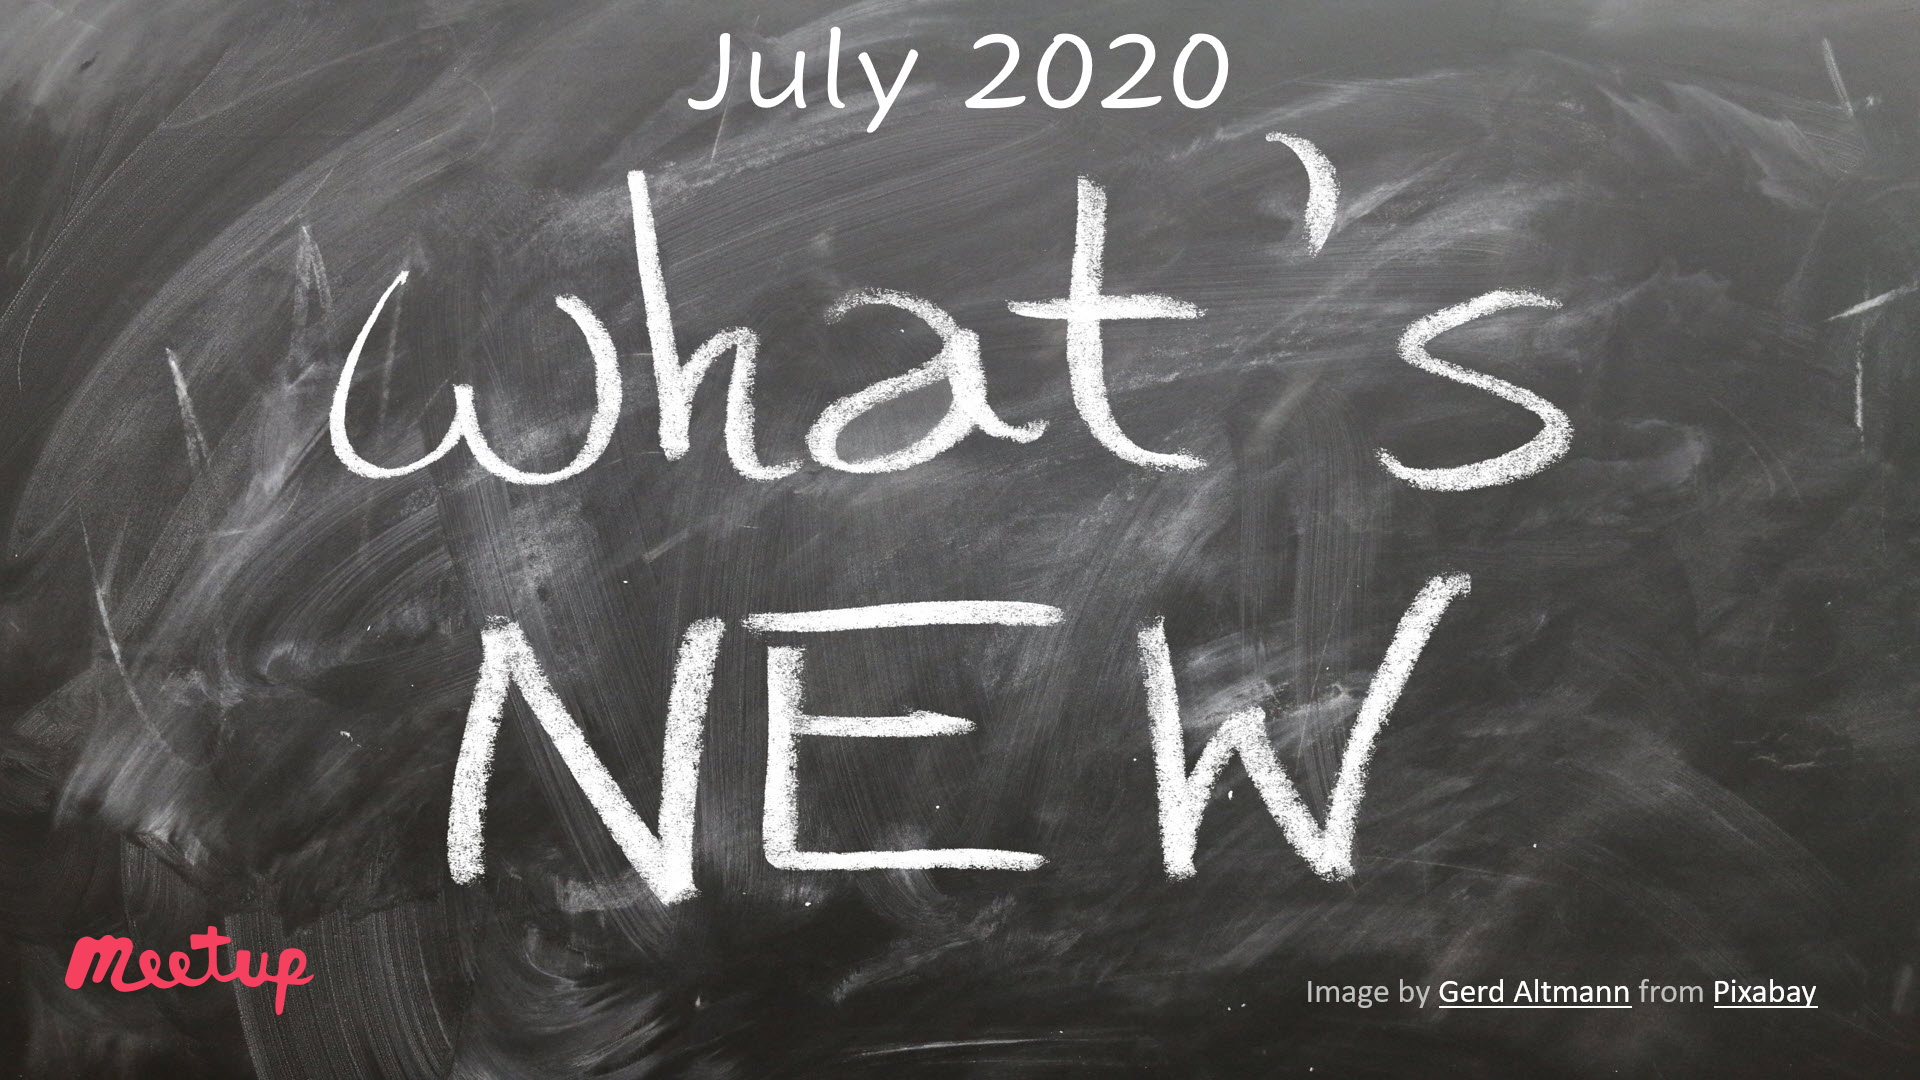
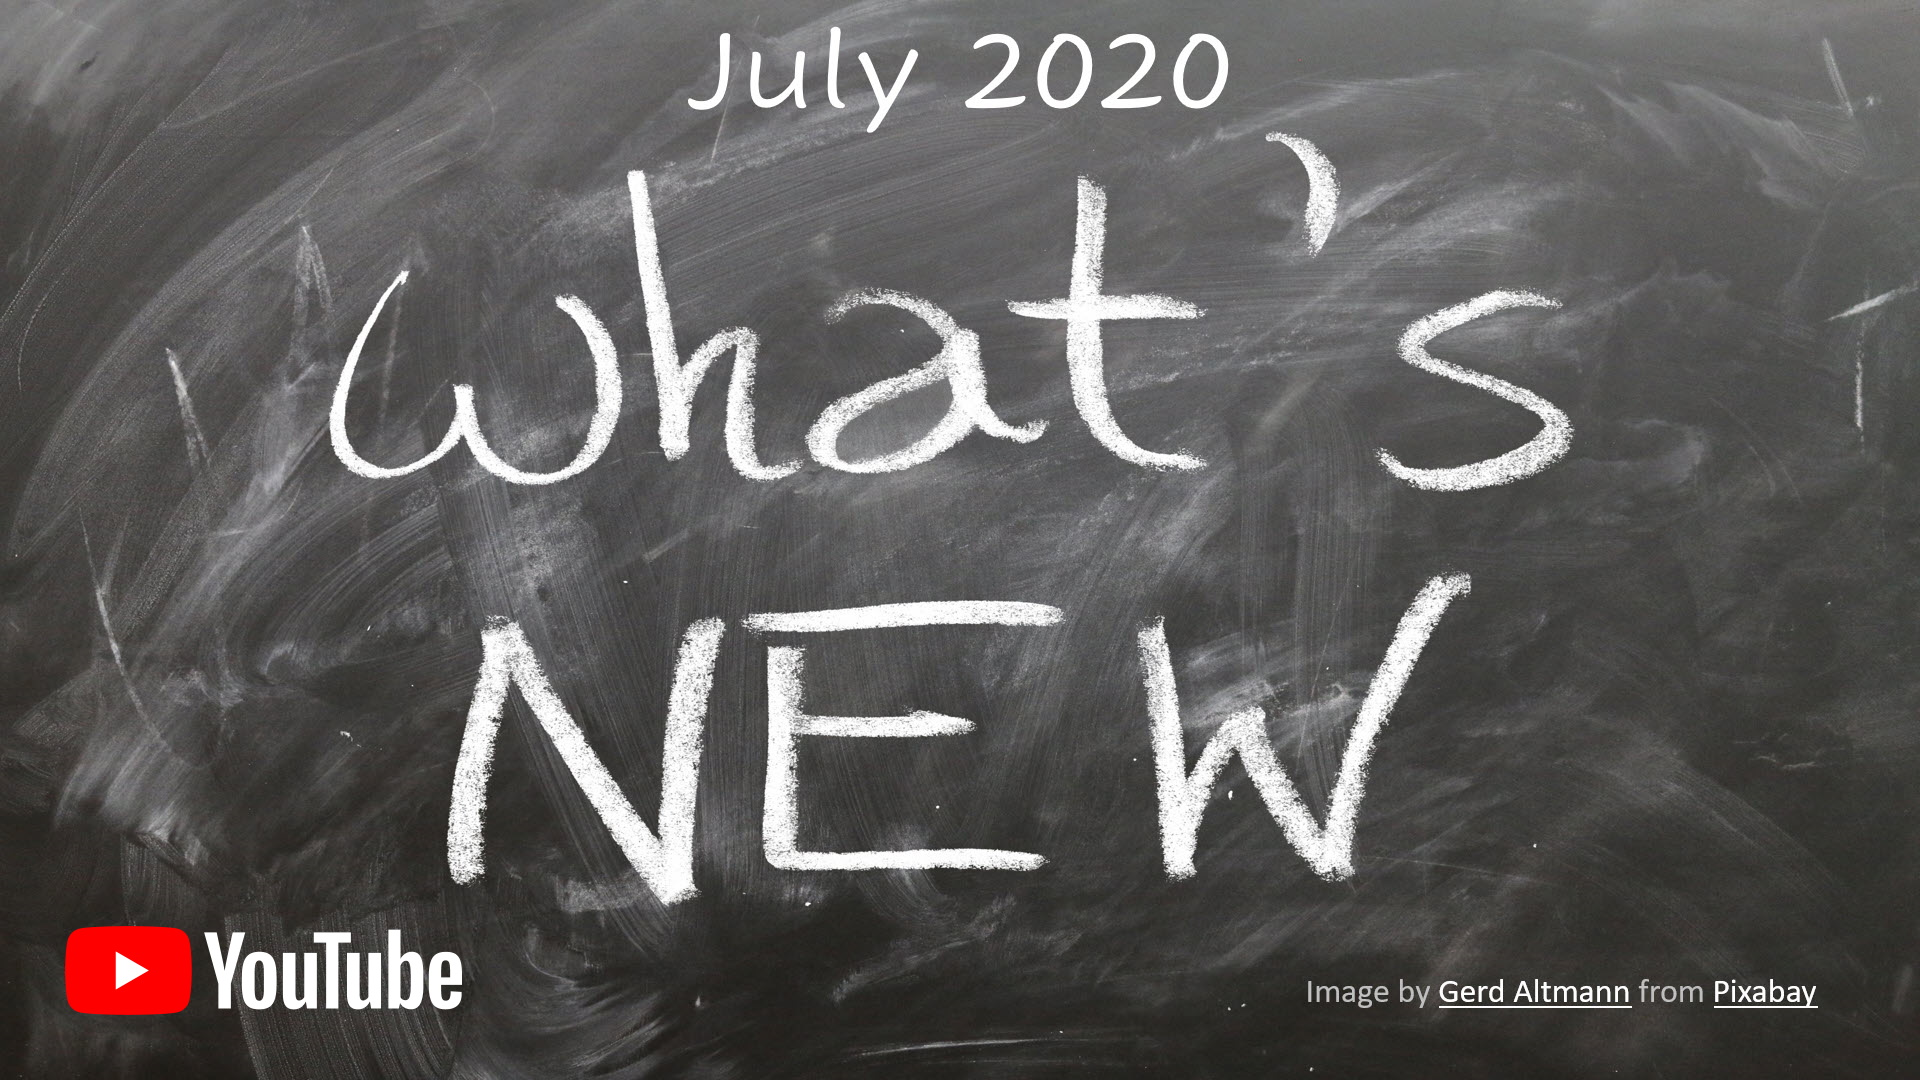
adding July notes and august session page

Changed region(s): [[0.0312, 0.8556, 0.25, 0.9472]]

diff --git a/meetups/2020/20200707.md b/meetups/2020/20200707.md
@@ -1,16 +1,44 @@
 # 7 July 2020 - News & Catch up 📰 July 2020
 
-[![](files/20200707/cover.jpg)](https://www.meetup.com/Azure-Transformation-Labs/events/271041672/)
+[![](files/20200707/cover.jpg)](https://www.youtube.com/watch?v=YJWdqKeuV08)
 
 ## Join Us
 
-[News & Catch up June 2020](https://www.meetup.com/Azure-Transformation-Labs/events/270811782/) - 7 July 2020 @ 6pm UTC + 2
+[News & Catch up July 2020](https://www.meetup.com/Azure-Transformation-Labs/events/271041672/) - 7 July 2020 @ 6pm UTC + 2
 
 RSVP on meetup: [Azure Transformation Labs](https://www.meetup.com/Azure-Transformation-Labs/)
 
 ## Session notes
 
-This will be posted after the session 😀
+Azure geo-zone-redundant storage now generally available:
+[https://azure.microsoft.com/is-is/updates/storage-gzrs-ga/](https://azure.microsoft.com/is-is/updates/storage-gzrs-ga/)
+
+Azure Kubernetes Service (AKS) support for proximity placement groups is now available:
+[https://azure.microsoft.com/en-in/updates/azure-kubernetes-service-aks-support-for-proximity-placement-groups-is-now-available/](https://azure.microsoft.com/en-in/updates/azure-kubernetes-service-aks-support-for-proximity-placement-groups-is-now-available/)
+
+WSL2 Demos based off windows update 2004:
+[https://docs.microsoft.com/en-us/windows/wsl/wsl2-index](https://docs.microsoft.com/en-us/windows/wsl/wsl2-index)
+
+Azure virtual machine scale set agents (Azure DevOps):
+[https://docs.microsoft.com/en-us/azure/devops/pipelines/agents/scale-set-agents?view=azure-devops](https://docs.microsoft.com/en-us/azure/devops/pipelines/agents/scale-set-agents?view=azure-devops)
+
+AWS Toolkit has codified templating - writing C# code that compiles into an 'ARM template' built into AWS
+
+Playing with docker commands
+
+Kubernetes chatter
+
+Managed Apache Kafka clusters:
+[https://www.confluent.io/confluent-cloud/](https://www.confluent.io/confluent-cloud/)
+
+Azure Sketches Episode 3 will be announced soon on meetup:
+[https://www.meetup.com/Azure-Transformation-Labs/](https://www.meetup.com/Azure-Transformation-Labs/)
+
+**View notes on GitHub**
+[https://github.com/South-Africa-Durban-UG/Meetups/blob/master/meetups/2020/20200707.md](https://github.com/South-Africa-Durban-UG/Meetups/blob/master/meetups/2020/20200707.md)
+
+**Azure Transformation Labs**
+[https://www.meetup.com/Azure-Transformation-Labs/](https://www.meetup.com/Azure-Transformation-Labs/)
 
 ## Subscribe / Join
 

diff --git a/meetups/2020/20200804.md b/meetups/2020/20200804.md
@@ -1,0 +1,19 @@
+# 4 August 2020 - News & Catch up 📰 August 2020
+
+[![](files/20200804/cover.jpg)](https://www.meetup.com/Azure-Transformation-Labs/events/271781572/)
+
+## Join Us
+
+[News & Catch up August 2020](https://www.meetup.com/Azure-Transformation-Labs/events/271781572/) - 4 August 2020 @ 6pm UTC + 2
+
+RSVP on meetup: [Azure Transformation Labs](https://www.meetup.com/Azure-Transformation-Labs/)
+
+## Session notes
+
+This will be posted after the session 😀
+
+## Subscribe / Join
+
+[![Azure Transformation Labs](files/_common/meetup.jpg)](https://www.meetup.com/Azure-Transformation-Labs/)
+
+[![South Africa Durban UG](files/_common/YouTube.jpg)](https://www.youtube.com/channel/UCLiY63qnSK5H619_uKSue4g)

diff --git a/README.md b/README.md
@@ -4,8 +4,9 @@ Index of meetup notes pages 😁
 
 ## 2020
 
-- [23 June 2020 - Azure Sketches, The Architect Series - Part 2](meetups/2020/20200623.md)
+- [4 August 2020 - News & Catch up 📰 August 2020](meetups/2020/20200804.md)
 - [7 July 2020 - News & Catch up 📰 July 2020](meetups/2020/20200707.md)
+- [23 June 2020 - Azure Sketches, The Architect Series - Part 2](meetups/2020/20200623.md)
 - [2 June 2020 - News & Catch up 📰 June 2020](meetups/2020/20200602.md)
 - [26 May 2020 - Azure Sketches, The Architect Series - Part 1](meetups/2020/20200526.md)
 - [4 May 2020 - Let's chat.. virtually 😁](meetups/2020/20200504.md)
